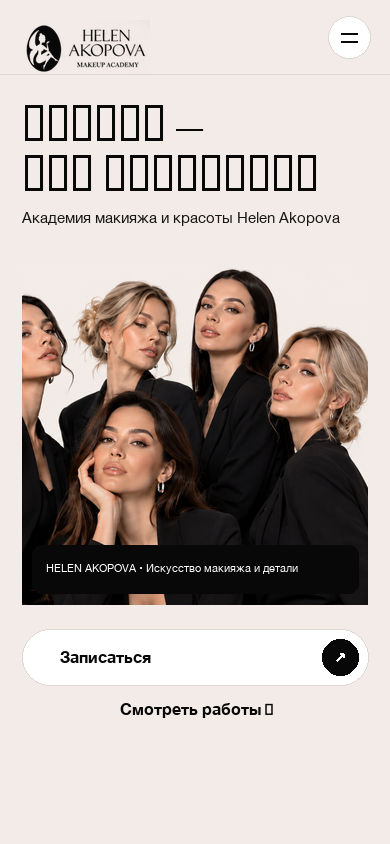
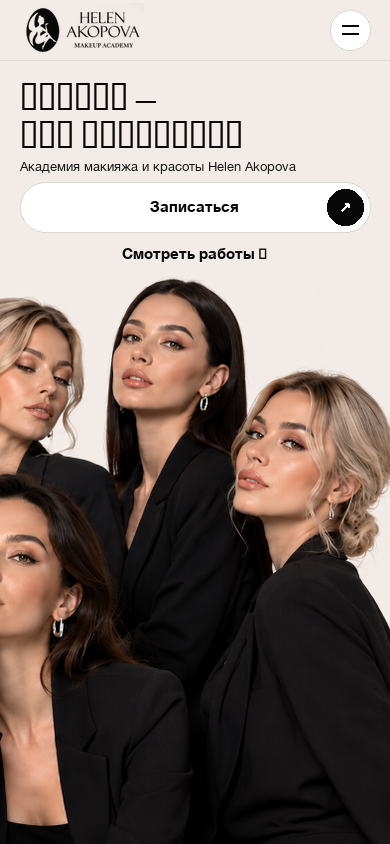
fix(mobile): center button text, increase photo size and elevate layout proportions

diff --git a/style.css b/style.css
@@ -1134,7 +1134,7 @@ img {
 
 @media (max-width: 900px) {
   :root {
-    --header-height: 76px;
+    --header-height: 64px;
     --screen-padding-h: 24px;
   }
 
@@ -1153,100 +1153,186 @@ img {
   .hero-section {
     flex-direction: column;
     justify-content: flex-start;
-    min-height: auto;
+    min-height: calc(100dvh - var(--header-height));
+    width: 100%;
   }
 
   .hero-left-content {
     position: static;
-    padding: 100px var(--screen-padding-h) 36px;
+    padding: calc(var(--header-height) + 16px) var(--screen-padding-h) 0;
     max-width: 100%;
     width: 100%;
     order: 1;
+    display: flex;
+    flex-direction: column;
+    align-items: flex-start;
+  }
+
+  .hero-typography-block {
+    margin-bottom: 20px;
+    width: 100%;
+  }
+
+  .hero-title {
+    font-size: clamp(2.2rem, 7.2vw, 2.75rem);
+    line-height: 1.05;
+    margin-bottom: 12px;
+    letter-spacing: -0.015em;
+  }
+
+  .hero-subtitle {
+    font-size: 14.5px;
+    line-height: 1.35;
+    margin-bottom: 20px;
+    color: var(--color-text-sub);
+  }
+
+  .hero-cta-group {
+    display: flex;
+    flex-direction: column;
+    align-items: center;
+    justify-content: center;
+    width: 100%;
+    gap: 12px;
+    margin-bottom: 16px;
+  }
+
+  .hero-primary-btn {
+    width: 100%;
+    max-width: 360px;
+    height: 52px;
+    position: relative;
+    display: flex;
+    align-items: center;
+    justify-content: center;
+    padding: 0 52px;
+    margin: 0 auto;
+    font-size: 15.5px;
+    font-weight: 500;
+    box-shadow: 0 4px 14px rgba(8, 8, 8, 0.05);
+  }
+
+  .hero-primary-btn span:first-child {
+    text-align: center;
+    margin: 0 auto;
+  }
+
+  .hero-primary-btn .btn-arrow-circle {
+    position: absolute;
+    right: 7px;
+    width: 38px;
+    height: 38px;
+  }
+
+  .hero-secondary-btn {
+    display: inline-flex;
+    align-items: center;
+    justify-content: center;
+    text-align: center;
+    width: 100%;
+    max-width: 360px;
+    font-size: 14.5px;
+    font-weight: 500;
+    color: var(--color-black-deep);
+    padding: 6px 0;
+    margin: 0 auto;
   }
 
   .hero-right-visual {
     position: relative;
     right: auto;
     bottom: auto;
-    height: auto;
-    min-height: 420px;
-    max-height: 560px;
     width: 100%;
-    order: 2;
+    flex: 1;
+    display: flex;
+    align-items: flex-end;
     justify-content: center;
+    overflow: hidden;
+    min-height: 380px;
+    order: 2;
+    margin-top: 6px;
   }
 
   .hero-image-stage {
+    position: relative;
     width: 100%;
-    height: auto;
-    min-height: 420px;
-    max-height: 560px;
+    height: 100%;
+    display: flex;
+    align-items: flex-end;
     justify-content: center;
   }
 
   .hero-group-photo {
     width: 100%;
+    max-width: 580px;
     height: auto;
-    max-height: 540px;
+    max-height: 500px;
+    object-fit: contain;
     object-position: center bottom;
+    display: block;
+    transform: scale(1.18);
+    transform-origin: center bottom;
   }
 
   .hero-bottom-info {
-    bottom: 24px;
-    right: 24px;
-    left: auto;
-    background: rgba(8, 8, 8, 0.4);
-    backdrop-filter: blur(8px);
-    padding: 12px 16px;
-    border-radius: 10px;
+    display: none;
   }
 }
 
 @media (max-width: 540px) {
   :root {
-    --header-height: 72px;
+    --header-height: 60px;
     --screen-padding-h: 20px;
   }
 
   .header-logo-img {
-    width: 130px;
+    width: 124px;
   }
 
   .header-cta-btn {
     display: none;
   }
 
+  .hero-left-content {
+    padding: calc(var(--header-height) + 12px) var(--screen-padding-h) 0;
+  }
+
   .hero-title {
-    font-size: 2.85rem;
-    line-height: 0.98;
-    margin-bottom: 18px;
+    font-size: clamp(2.05rem, 6.8vw, 2.35rem);
+    line-height: 1.05;
+    margin-bottom: 10px;
   }
 
   .hero-subtitle {
-    font-size: 1.05rem;
-    margin-bottom: 24px;
+    font-size: 13.5px;
+    line-height: 1.35;
+    margin-bottom: 18px;
   }
 
   .hero-cta-group {
-    flex-direction: column;
-    align-items: flex-start;
-    gap: 16px;
+    gap: 12px;
+    margin-bottom: 12px;
   }
 
   .hero-primary-btn {
-    width: 100%;
-    height: 56px;
-    font-size: 16px;
+    max-width: 100%;
+    height: 50px;
+    font-size: 15px;
+  }
+
+  .hero-secondary-btn {
+    font-size: 14px;
+    padding: 4px 0;
   }
 
   .hero-right-visual {
-    min-height: 380px;
-    max-height: 420px;
+    min-height: 340px;
+    margin-top: 0;
   }
 
-  .hero-image-stage {
-    min-height: 380px;
-    max-height: 420px;
+  .hero-group-photo {
+    transform: scale(1.22);
+    transform-origin: center bottom;
   }
 }
 

diff --git a/generate_renders.py b/generate_renders.py
@@ -201,84 +201,85 @@ def render_mobile_exact(output_filename):
     draw = ImageDraw.Draw(canvas)
 
     # Mobile Header
-    draw.line([(0, 74), (W, 74)], fill=COLOR_BORDER + (80,), width=1)
+    header_h = 60
+    draw.line([(0, header_h), (W, header_h)], fill=COLOR_BORDER + (80,), width=1)
     
     # Logo
     logo = Image.open("assets/logo-horizontal-transparent.png").convert("RGBA")
-    logo_w = 130
+    logo_w = 124
     logo_h = int(logo.height * (logo_w / logo.width))
     logo_resized = logo.resize((logo_w, logo_h), Image.Resampling.LANCZOS)
-    canvas.alpha_composite(logo_resized, (20, 20))
+    canvas.alpha_composite(logo_resized, (20, (header_h - logo_h) // 2))
     
     # Hamburger
-    ham_x = W - 20 - 42
-    ham_y = 16
-    draw_rounded_rect(draw, [ham_x, ham_y, ham_x + 42, ham_y + 42], radius=21, fill=COLOR_WHITE, outline=COLOR_BORDER, width=1)
-    draw.line([(ham_x + 13, ham_y + 17), (ham_x + 29, ham_y + 17)], fill=COLOR_BLACK, width=2)
-    draw.line([(ham_x + 13, ham_y + 25), (ham_x + 29, ham_y + 25)], fill=COLOR_BLACK, width=2)
+    ham_x = W - 20 - 40
+    ham_y = (header_h - 40) // 2
+    draw_rounded_rect(draw, [ham_x, ham_y, ham_x + 40, ham_y + 40], radius=20, fill=COLOR_WHITE, outline=COLOR_BORDER, width=1)
+    draw.line([(ham_x + 12, ham_y + 15), (ham_x + 28, ham_y + 15)], fill=COLOR_BLACK, width=2)
+    draw.line([(ham_x + 12, ham_y + 23), (ham_x + 28, ham_y + 23)], fill=COLOR_BLACK, width=2)
 
     # Mobile Typography
-    y = 96
+    y = header_h + 16
     try:
-        f_title_m = ImageFont.truetype(SERIF_BODONI, 48, index=0)
+        f_title_m = ImageFont.truetype(SERIF_BODONI, 36, index=0)
     except:
-        f_title_m = ImageFont.truetype(SERIF_GEORGIA, 44)
+        f_title_m = ImageFont.truetype(SERIF_GEORGIA, 35)
         
-    draw.text((22, y), "Макияж —", font=f_title_m, fill=COLOR_BLACK)
-    y += 50
-    draw.text((22, y), "это искусство", font=f_title_m, fill=COLOR_BLACK)
+    draw.text((20, y), "Макияж —", font=f_title_m, fill=COLOR_BLACK)
+    y += 38
+    draw.text((20, y), "это искусство", font=f_title_m, fill=COLOR_BLACK)
     
-    y += 62
+    y += 44
     try:
-        f_sub_m = ImageFont.truetype(SANS_REG, 15)
+        f_sub_m = ImageFont.truetype(SANS_REG, 13)
     except:
-        f_sub_m = ImageFont.truetype(SANS_REG, 14)
-    draw.text((22, y), "Академия макияжа и красоты Helen Akopova", font=f_sub_m, fill=COLOR_SUBTITLE)
+        f_sub_m = ImageFont.truetype(SANS_REG, 13)
+    draw.text((20, y), "Академия макияжа и красоты Helen Akopova", font=f_sub_m, fill=COLOR_SUBTITLE)
+    y += 24
 
-    # Group Photo on Mobile (lower section)
-    grp_orig = Image.open("assets/group-girls-hero.png").convert("RGB")
-    m_w, m_h = W - 44, 340
-    scale = max(m_w / grp_orig.width, m_h / grp_orig.height) * 1.05
-    new_w = int(grp_orig.width * scale)
-    new_h = int(grp_orig.height * scale)
-    grp_scaled = grp_orig.resize((new_w, new_h), Image.Resampling.LANCZOS)
-    crop_x = new_w - m_w  # Focus on models
-    grp_cropped = grp_scaled.crop((crop_x, 0, crop_x + m_w, m_h))
-    
-    # Soft rounded corners
-    m_mask = Image.new("L", (m_w, m_h), 255)
-    m_draw = ImageDraw.Draw(m_mask)
-    m_draw.rounded_rectangle([0, 0, m_w, m_h], radius=16, fill=255)
-    grp_cropped.putalpha(m_mask)
-    
-    y_photo = 265
-    canvas.alpha_composite(grp_cropped, (22, y_photo))
-
-    # Badge overlay inside mobile photo
-    draw_rounded_rect(draw, [32, y_photo + m_h - 60, W - 32, y_photo + m_h - 12], radius=10, fill=(8, 8, 8, 160))
-    f_badge_m = ImageFont.truetype(SANS_REG, 11)
-    draw.text((46, y_photo + m_h - 44), "HELEN AKOPOVA • Искусство макияжа и детали", font=f_badge_m, fill=COLOR_WHITE)
-
-    # Mobile Button Group (Пункт 6 ТЗ)
-    y_btn = y_photo + m_h + 24
-    draw_rounded_rect(draw, [22, y_btn, W - 22, y_btn + 56], radius=28, fill=COLOR_WHITE, outline=COLOR_BORDER, width=1)
+    # Mobile Button Group: Записаться (по центру) + Смотреть работы (по центру)
+    btn_w = W - 40
+    btn_h = 50
+    draw_rounded_rect(draw, [20, y, 20 + btn_w, y + btn_h], radius=25, fill=COLOR_WHITE, outline=COLOR_BORDER, width=1)
     try:
-        f_btn_m = ImageFont.truetype(SANS_MED, 16, index=1)
+        f_btn_m = ImageFont.truetype(SANS_MED, 15, index=1)
     except:
-        f_btn_m = ImageFont.truetype(SANS_BOLD, 16)
+        f_btn_m = ImageFont.truetype(SANS_BOLD, 15)
         
-    draw.text((60, y_btn + 18), "Записаться", font=f_btn_m, fill=COLOR_BLACK)
+    txt_cta = "Записаться"
+    bbox_cta = draw.textbbox((0, 0), txt_cta, font=f_btn_m)
+    tw_cta = bbox_cta[2] - bbox_cta[0]
+    draw.text((20 + (btn_w - tw_cta) // 2, y + 15), txt_cta, font=f_btn_m, fill=COLOR_BLACK)
     
-    # Circle arrow on mobile button
+    # Circle arrow on right inside button
     m_cir_r = 18
-    m_cir_cx = W - 22 - 10 - m_cir_r
-    m_cir_cy = y_btn + 28
+    m_cir_cx = 20 + btn_w - 7 - m_cir_r
+    m_cir_cy = y + 25
     draw.ellipse([m_cir_cx - m_cir_r, m_cir_cy - m_cir_r, m_cir_cx + m_cir_r, m_cir_cy + m_cir_r], fill=COLOR_BLACK)
     draw_arrow_ne(draw, m_cir_cx, m_cir_cy, size=4, color=COLOR_WHITE, width=2)
+    y += btn_h + 12
 
-    # Secondary action link below on mobile
-    y_sec = y_btn + 70
-    draw.text((120, y_sec), "Смотреть работы →", font=f_btn_m, fill=COLOR_BLACK)
+    # Secondary action link centered below button
+    txt_sec = "Смотреть работы →"
+    bbox_sec = draw.textbbox((0, 0), txt_sec, font=f_btn_m)
+    tw_sec = bbox_sec[2] - bbox_sec[0]
+    draw.text(((W - tw_sec) // 2, y), txt_sec, font=f_btn_m, fill=COLOR_BLACK)
+    y += 28
+
+    # Group Photo on Mobile: placed higher, scaled up, seamless studio background
+    photo_avail_h = H - y
+    grp_orig = Image.open("assets/group-girls-hero.png").convert("RGBA")
+    # Crop empty left margin so all 5 models are centered and prominent
+    grp_cropped = grp_orig.crop((140, 0, grp_orig.width, grp_orig.height))
+    scale = photo_avail_h / grp_cropped.height
+    new_w = int(grp_cropped.width * scale)
+    new_h = photo_avail_h
+    grp_scaled = grp_cropped.resize((new_w, new_h), Image.Resampling.LANCZOS)
+    
+    # Align to right bottom
+    paste_x = W - new_w
+    paste_y = y
+    canvas.alpha_composite(grp_scaled, (paste_x, paste_y))
 
     final_rgb = canvas.convert("RGB")
     final_rgb.save(output_filename, quality=96)
